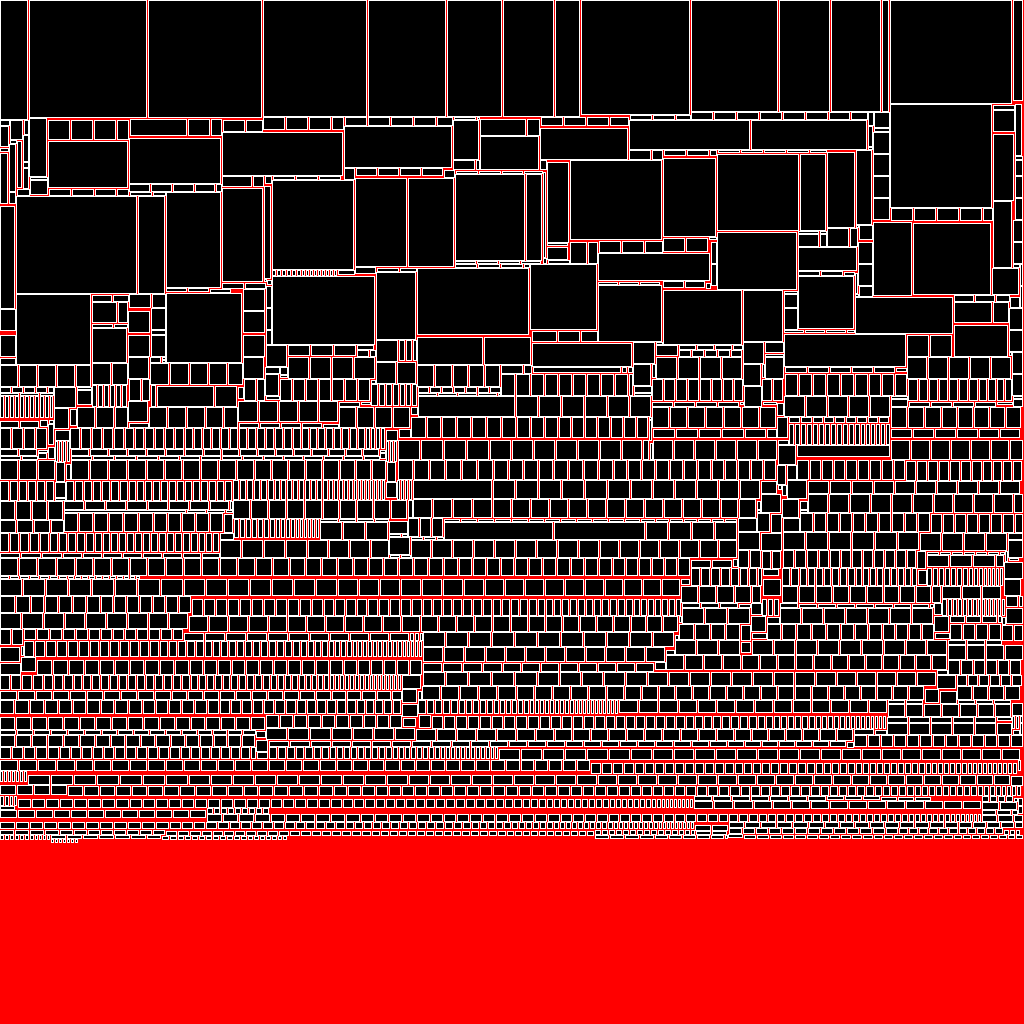
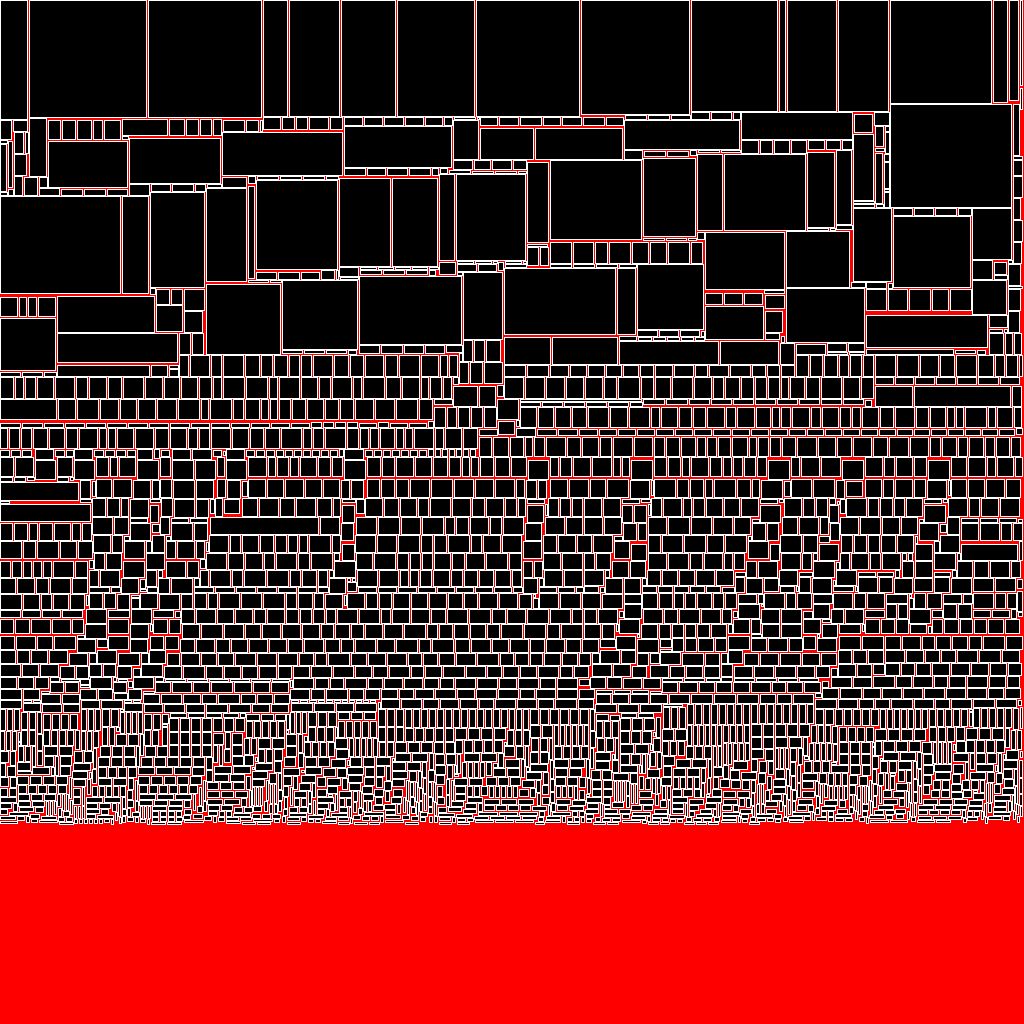
Small update

diff --git a/src/mihailris/lmpacker/Rect.java b/src/mihailris/lmpacker/Rect.java
@@ -38,11 +38,9 @@ public class Rect {
     }
 
     public int getPackerScore() {
-        return height * 1000 + width;
-
-        /*if (width * height > 100)
+        if (width * height > 100)
             return height * height * 1000;
-        return (width * height * height);*/
+        return (width * height * height);
     }
 
     public int getArea() {

diff --git a/README.md b/README.md
@@ -24,12 +24,13 @@ LMPacker packer = new LMPacker(sizes);
 int width = 1024;
 int height = 1024;
 
-if (!packer.buildCompact(width, height, 1)) {
+if (packer.buildCompact(width, height, 1)) {
+    List<Rect> rects = packer.getResult();
+    // visualization
+    // ...
+} else {
     System.err.println("Could not to pack");
 }
-
-// visualization
-// ...
 ```
 
 Atlas generated in 148 ms [compact mode]:
